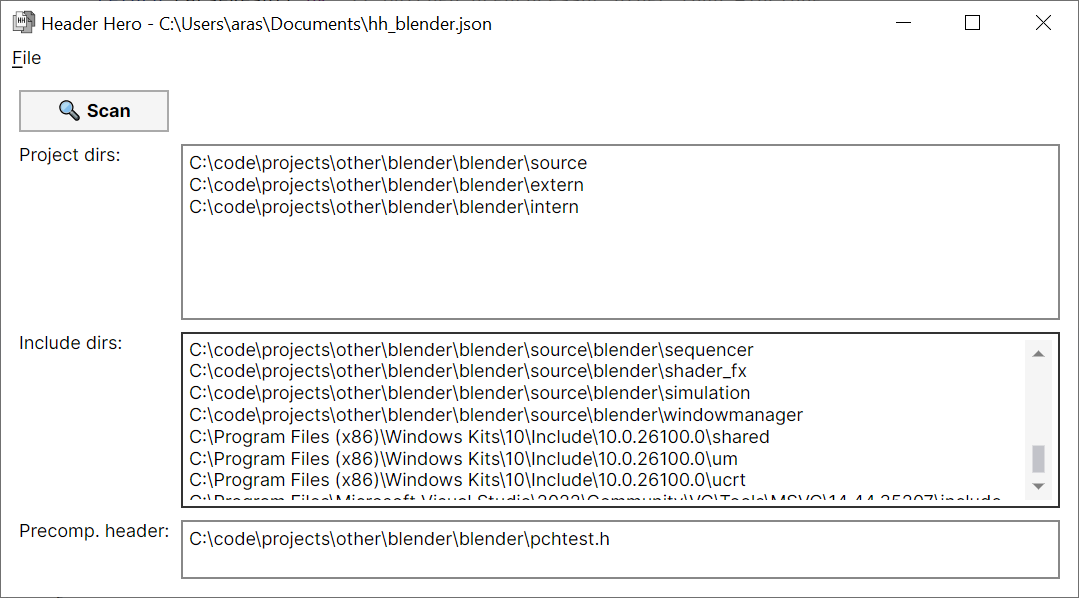
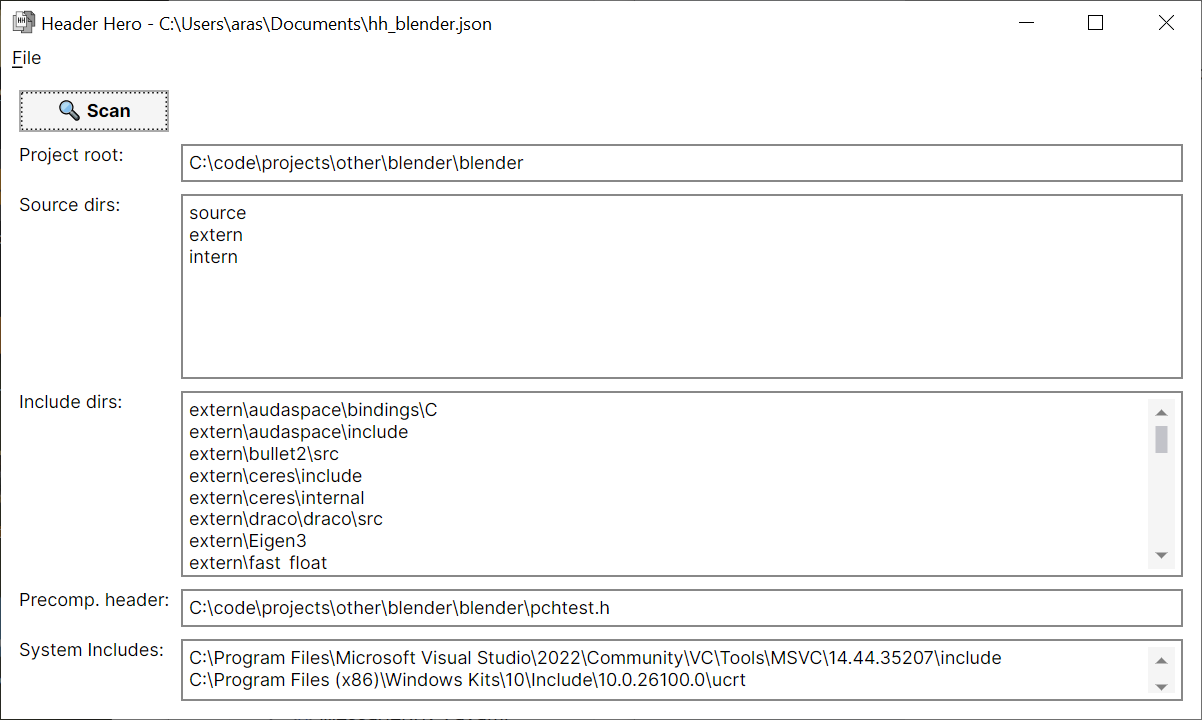
Add project root setting

diff --git a/header_hero/Data/Project.cs b/header_hero/Data/Project.cs
@@ -1,6 +1,7 @@
 using System;
 using System.Collections.Generic;
 using System.IO;
+using System.Linq;
 using System.Text;
 using System.Text.Json;
 
@@ -8,17 +9,28 @@ namespace HeaderHero.Data;
 
 public class Project
 {
+    public string ProjectRoot { get; set; } = string.Empty;
     public List<string> ScanDirectories { get; set; } = [];
     public List<string> IncludeDirectories { get; set; } = [];
     public string PrecompiledHeader { get; set; } = string.Empty;
     public Dictionary<string, SourceFile> Files { get; } = new();
     public TimeSpan ScanTime { get; set; }
 
+    public IEnumerable<string> ScanDirectoriesRooted()
+    {
+        return ScanDirectories.Select(s => Path.IsPathFullyQualified(s) ? s : Path.Combine(ProjectRoot, s));
+    }
+    public IEnumerable<string> IncludeDirectoriesRooted()
+    {
+        return IncludeDirectories.Select(s => Path.IsPathFullyQualified(s) ? s : Path.Combine(ProjectRoot, s));
+    }
+
     public string ToJson(List<string> systemIncludesToExclude)
     {
         using var stream = new MemoryStream();
         using var writer = new Utf8JsonWriter(stream, new JsonWriterOptions {Indented = true} );
         writer.WriteStartObject();
+        writer.WriteString("ProjectRoot", ProjectRoot);
         writer.WriteStartArray("ScanDirectories");
         foreach (var s in ScanDirectories)
             writer.WriteStringValue(s);
@@ -38,6 +50,7 @@ public class Project
 
     public void FromJsonFile(string filePath)
     {
+        ProjectRoot = string.Empty;
         ScanDirectories = [];
         IncludeDirectories = [];
         PrecompiledHeader = string.Empty;
@@ -47,6 +60,7 @@ public class Project
         {
             var json = File.ReadAllText(filePath);
             using var doc = JsonDocument.Parse(json);
+            ProjectRoot = GetString("ProjectRoot", doc.RootElement) ?? string.Empty;
             ScanDirectories = GetStringList("ScanDirectories", doc.RootElement);
             IncludeDirectories = GetStringList("IncludeDirectories", doc.RootElement);
             PrecompiledHeader = GetString("PrecompiledHeader", doc.RootElement) ?? string.Empty;

diff --git a/header_hero/Parser/Scanner.cs b/header_hero/Parser/Scanner.cs
@@ -56,7 +56,7 @@ public class Scanner
 
     bool IsCaseSensitive()
     {
-        foreach (string dir in _project.ScanDirectories)
+        foreach (string dir in _project.ScanDirectoriesRooted())
         {
             DirectoryInfo dl = new DirectoryInfo(dir.ToLowerInvariant());
             DirectoryInfo du = new DirectoryInfo(dir.ToUpperInvariant());
@@ -96,13 +96,13 @@ public class Scanner
         _scanning_pch = false;
 
         feedback.Title = "Scanning directories...";
-        foreach (string dir in _project.ScanDirectories)
+        foreach (string dir in _project.ScanDirectoriesRooted())
         {
             ScanDirForSourceFilesRecurse(new DirectoryInfo(dir));
         }
 
         feedback.Title = "Scanning headers...";
-        foreach (string dir in _project.IncludeDirectories)
+        foreach (string dir in _project.IncludeDirectoriesRooted())
         {
             ScanDirForHeaders(new DirectoryInfo(dir));
         }
@@ -289,7 +289,7 @@ public class Scanner
                 {
                     string found = null;
 
-                    foreach (string dir in _project.IncludeDirectories)
+                    foreach (string dir in _project.IncludeDirectoriesRooted())
                     {
                         found = Path.GetFullPath(Path.Combine(dir, s));
                         if (FileExists(found))

diff --git a/header_hero/MainWindow.axaml.cs b/header_hero/MainWindow.axaml.cs
@@ -50,6 +50,7 @@ public partial class MainWindow : Window
 
     void ProjectFieldsToUI()
     {
+        RootTextBox.Text = _project.ProjectRoot ?? string.Empty;
         ProjectDirsTextBox.Text = string.Join("\r\n", _project.ScanDirectories.ToArray());
         IncludeDirsTextBox.Text = string.Join("\r\n", _project.IncludeDirectories.Except(_systemIncludes).ToArray());
         PchTextBox.Text = _project.PrecompiledHeader ?? string.Empty;
@@ -57,6 +58,7 @@ public partial class MainWindow : Window
 
     void ParseProjectFieldsFromUI()
     {
+        _project.ProjectRoot = RootTextBox.Text?.Trim() ?? "";
         _project.ScanDirectories = ProjectDirsTextBox.Text?.Split('\n', '\r').Where(s => !string.IsNullOrWhiteSpace(s)).ToList() ?? [];
         _project.IncludeDirectories = IncludeDirsTextBox.Text?.Split('\n', '\r').Where(s => !string.IsNullOrWhiteSpace(s)).ToList() ?? [];
         _project.IncludeDirectories.AddRange(_systemIncludes);
